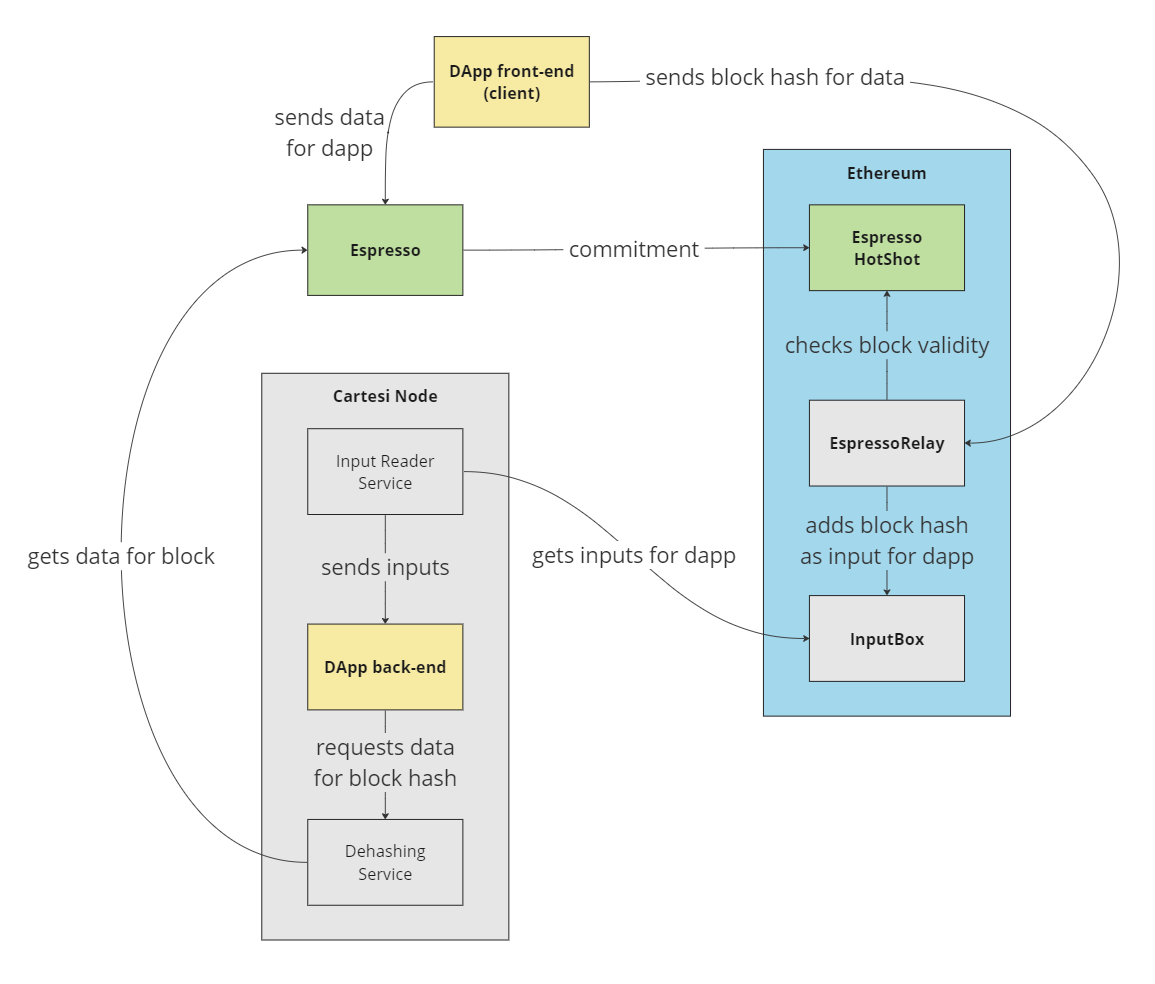
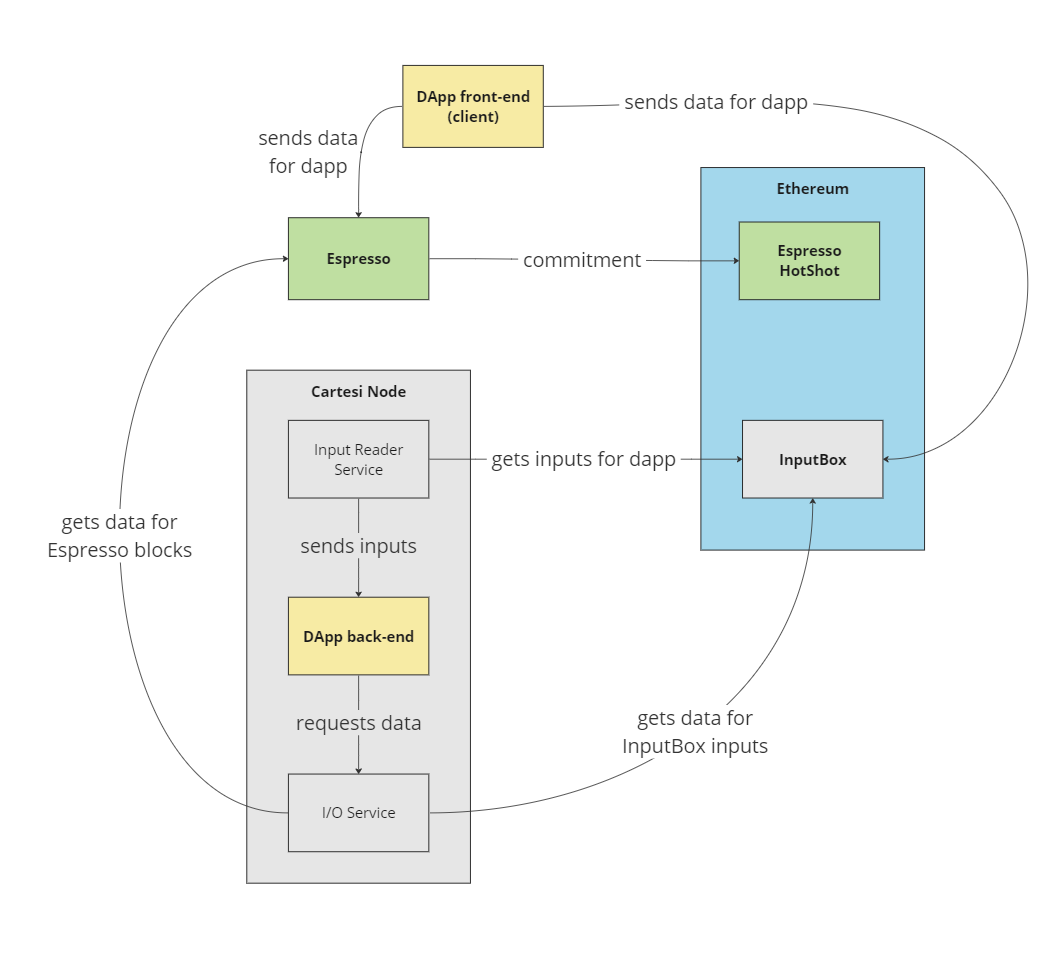
Update README for Espresso Sequencer + DA

diff --git a/echo-espresso/src/index.ts b/echo-espresso/src/index.ts
@@ -17,8 +17,8 @@ const dehashingServer = process.env.DEHASHING_SERVER_URL;
 console.log("Dehashing server url is " + dehashingServer);
 
 // next Espresso block height to process
-//let espressoBlockHeight: number | undefined = undefined;
-let espressoBlockHeight: number = 1284960;
+// - initial value is starting point from where to process Espresso data (genesis block)
+let espressoBlockHeight: number = 1687985;
 
 /**
  * Fetch data from the InputBox

diff --git a/README.md b/README.md
@@ -1,111 +1,162 @@
 # rollups-espresso
 
-Experimentation to allow the creation of Cartesi DApps using Espresso's sequencer and DA
+Experimentation to allow the creation of Cartesi DApps using Espresso's sequencer and DA.
+
+The first version of the experiment, using Espresso solely as DA, can be found [in this branch](https://github.com/miltonjonat/rollups-espresso/tree/release/0.1.x-da-only).
 
 ## Rationale
 
 [Espresso Systems](https://www.espressosys.com/) provides a decentralized sequencer and data availability system, which can be of use to scale layer-2 rollup solutions.
 [Cartesi](https://cartesi.io) provides a [rollups solution](https://docs.cartesi.io/cartesi-rollups/) which could particularly benefit from both.
 
-In this experiment, we do a minimalistic experimentation of using Espresso solely as a DA provider for Cartesi DApps. This will **not** provide much benefits in terms of transaction throughput, but it will allow larger volumes of data to be used in Cartesi DApps. In other words, it does not help applications that need clients to send hundreds of transactions, but it does help applications where larger sets of data are required.
+In this experiment, we implement a simplified solution to allow Cartesi DApps to pull data from the Espresso sequencer while retaining the ability to fetch inputs from the Cartesi Rollups InputBox contract on the base layer (as they usually do).
+As such, applications can take advantage of Espresso's higher throughput and lower fees and latency, while still being able to interact with the base layer (e.g., to manage L1 assets).
+
+The main purpose of this experiment is to learn how this kind of integration could work in practice, while still being generally compatible with fraud proof systems such as Dave.
+At its current stage, the experiment attempts to do minimal changes to the current Cartesi Rollups architecture, particularly by preserving how inputs and outputs are handled by the Cartesi Node (which is probably not the ideal approach for a production-ready implementation).
+
+Please note that this experiment is currently **incomplete**, and can only be executed in "host mode". An actual implementation using Cartesi Machines will require a version of the Cartesi Node that is compatible with the machine's new generic I/O device.
+
 
 ## Architecture
 
-The general procedure envisioned here to use Espresso data in Cartesi DApps is the following:
+The general procedure envisioned here is for the application to specify which data it should process next, instead of passively receiving inputs.
+This is done by having the application make an "I/O request" specifying a `domain` of interest (e.g., "inputbox" or "espresso") and an `id` within that domain (e.g., an input index, or an Espresso block number).
+
+### How I/O requests are made
+
+In a real implementation, I/O requests would be sent to the Cartesi Machine's new generic I/O device, which would then yield (halt the machine). Outside the machine, the Cartesi Node would notice the request, fetch the corresponding piece of data, write the data to the machine, and then resume the machine's execution. The fetching of the data could be done via an "I/O service" component running in the Node, which would have drivers (or plugins) capable of fetching data for each supported domain.
+
+For this experiment, since we do not have a Node compatible with the generic I/O device, we will run the application in "host mode" (i.e., directly on the host and not inside the Cartesi Machine), and have it call the I/O service component directly.
+
+### Why this way? Considerations about fraud proof systems
+
+This approach of having the application request the data, as opposed to passively receiving inputs, is crucial for the solution to remain manageable by a fraud proof system such as Dave. When there are several sources of data (as is the case here), it would become extremely complicated for an on-chain dispute resolution process to include the logic for handling the relative order of the data.
+
+Instead, if that logic is contained within the application itself (i.e., in code running inside the deterministic Cartesi Machine), it becomes transparent to the fraud proof system.
+The only requirement is that each I/O operation must be provable on-chain, meaning that it must be possible to prove the Cartesi merkle root hash of the data returned by the `[domain, id]` request. These proofs (which may even involve ZK for some cases) are not implemented in this experiment.
+It is also naturally required that each request be fully deterministic, meaning that it must always yield the exact same data regardless of when it was called.
+
+### General workflow
+
+The following diagram summarizes the general workflow:
 
 ![Rollups Espresso Diagram](./rollups-espresso.png)
 
-1. Client submits data to Espresso, using a VM ID derived from the Cartesi DApp's address
-1. Client waits for the data to be included in an Espresso block, and notes the block's hash
-1. Client submits the block hash to an `EspressoRelay` contract on the base layer, so that it is sent to the Cartesi DApp's back-end
-1. The `EspressoRelay` contract checks with Espresso's `HotShot` contract if the block hash is indeed valid (not implemented)
-1. The `EspressoRelay` contract calls the Cartesi `InputBox` to add the block hash as an input to the Cartesi DApp
-1. The Cartesi Node reads the input from `InputBox` and sends it to be processed by the DApp back-end, as with any other input
-1. The DApp back-end recognizes that the input comes from the `EspressoRelay` contract, which it trusts to have verified as being a valid Espresso block hash
-1. The DApp back-end requests the corresponding block data using the `Dehashing Service`
-1. The `Dehashing Service` fetches the specified block, and serves only the data associated with the Cartesi DApp's VM ID (derived from its address)
-1. The DApp back-end receives the data and resumes processing
+1. DApp is deployed to an Ethereum-compatible network, for which there is an `Espresso` instance submitting its commitments
+1. `Client` submits a first input to the DApp via the L1 InputBox
+1. The `Cartesi Node` reads the input from the `InputBox` and sends it to be processed by the `DApp back-end`, as with any other input
+1. The `DApp back-end` starts up to process the input, and then begins requesting data from both the L1 `InputBox` and `Espresso`, via the `I/O Service`; whenever it requests data, it blocks (yields) until it receives it
+1. `Client` submits subsequent data to the DApp: either via the L1 `InputBox` (higher latency and costs), or via `Espresso` (lower latency and costs); for `Espresso`, it will use a VM ID derived from the Cartesi DApp's address
+1. The `I/O Service` fetches data from both sources, and serves them when requested by the `DApp back-end`
+1. The `DApp back-end` receives the data and resumes processing
 
-In this experiment, no thought is given to on-chain dispute resolution. It is assumed that this will be resolved later on by providing some sort of proof (maybe ZK) to associate an Espresso block hash with the Cartesi merkle tree root hash of its corresponding data.
+### I/O request ordering
+
+To read data from both the L1 InputBox and Espresso, the DApp back-end must establish a well-defined and repeatable order.
+In this experiment, this is accomplished by using L1 blocks as anchors to define when to switch from one source to the other. As such, in every I/O request of the form `[domain, id]`, the `id` includes an L1 block number of reference, meaning that the request should only return the corresponding data if it was found to be available at the time of that L1 block.
+
+The basic workflow is as follows:
+1. First InputBox input is received, which includes the L1 block number in which it was added
+2. DApp back-end processes all other InputBox inputs that were added _in that same L1 block_
+3. DApp back-end processes all data from Espresso blocks that were available _at the time of that same L1 block_
+4. DApp back-end increments L1 block number of reference and returns to (2)
+
+It should be noted that step (3) is possible because Espresso blocks include information about the state of the L1 chain at the time they are produced (e.g., the current L1 finalized block hash and number).
 
 ## Components
 
 To implement the proposed architecture, this repository contains the following components:
 
-- `dehashing-server`: a simple HTTP server that receives requests for dehashing Espresso blocks, returning the corresponding data. This component is expected to run inside the Cartesi Node
-- `onchain > EspressoRelay`: a smart contract for safely relaying Espresso block hashes as inputs to Cartesi DApps
-- `echo-espresso`: a back-end that simply receives an input from the EspressoRelay and outputs a notice with the corresponding data
+- `dehashing-server`: a simple HTTP server that receives requests for InputBox inputs and Espresso blocks (and potentially other data sources), returning the corresponding data. This component is expected to run inside the Cartesi Node
+- `echo-espresso`: a back-end that requests data from both the InputBox and Espresso in a well-defined order, and outputs a notice repeating ("echoing") each payload received
 
 ## Running
 
-To run this experiment, perform the following steps:
+To run this experiment on Sepolia, perform the following steps:
 
-1. Start a local sunodo development node without a back-end (aka run it in "host mode")
+1. Build the `echo-espresso` DApp with sunodo
 
 ```shell
-sunodo run --no-backend
+cd echo-espresso
+sunodo build
 ```
 
-2. Start the `dehashing-server` (it will run on port 5006)
+2. Deploy the `echo-espresso` DApp to Sepolia (e.g., using an Alchemy gateway)
 
 ```shell
+export NETWORK=sepolia
+export CHAIN_ID=11155111
+export MNEMONIC=<user sequence of twelve words>
+export RPC_URL=https://eth-sepolia.g.alchemy.com/v2/<USER_KEY>
+export WSS_URL=wss://eth-sepolia.g.alchemy.com/v2/<USER_KEY>
+docker compose -f deploy.yml run authority-deployer
+docker compose -f deploy.yml run dapp-deployer
+```
+
+3. Start a local validator node without a back-end (aka run it in "host mode") for that deployment on Sepolia
+
+First, define `SUNODO_BIN_PATH` by checking where Sunodo is installed in your system. For instance, if Sunodo was installed globally via npm, you can run `npm -g list` to find out its installation path, and then define the variable as such:
+
+```shell
+export SUNODO_BIN_PATH=~/.nvm/versions/node/<NODE_VERSION>/lib/node_modules/@sunodo/cli/dist
+```
+
+And then, start the node:
+
+```shell
+docker compose -f $SUNODO_BIN_PATH/node/docker-compose-validator.yaml -f $SUNODO_BIN_PATH/node/docker-compose-database.yaml -f $SUNODO_BIN_PATH/node/docker-compose-explorer.yaml -f $SUNODO_BIN_PATH/node/docker-compose-anvil.yaml  -f $SUNODO_BIN_PATH/node/docker-compose-proxy.yaml -f $SUNODO_BIN_PATH/node/docker-compose-prompt.yaml -f $SUNODO_BIN_PATH/node/docker-compose-host.yaml -f $SUNODO_BIN_PATH/node/docker-compose-envfile.yaml -f ./deployments-volume.yaml --project-directory . up --attach prompt --attach validator
+```
+
+4. In a separate terminal, start the `dehashing-server` for the deployed DApp and looking at Sepolia as the base layer (it will run on port 5006)
+
+```shell
+export RPC_URL=https://eth-sepolia.g.alchemy.com/v2/<USER_KEY>
+export DAPP_ADDRESS=$(cat echo-espresso/.deployments/sepolia/dapp.json | jq -r .address)
 cd dehashing-server
 yarn && yarn start
 ```
 
-3. In a separate terminal, run the `echo-espresso` back-end in the host
+5. In a separate terminal, run the `echo-espresso` back-end in the host
 
 ```shell
 cd echo-espresso
 yarn && yarn start
 ```
 
-4. In a separate terminal, deploy the `EspressoRelay` contract to sunodo's internal Anvil instance:
+### Interacting with the application
+
+1. First of all, extract the application's deployed address
 
 ```shell
-cd onchain
-yarn && yarn deploy
+cd echo-espresso
+export DAPP_ADDRESS=$(cat .deployments/sepolia/dapp.json | jq -r .address)
 ```
 
-5. Send an Espresso block hash as input to the `EspressoRelay` contract
+2. Send an L1 input via the InputBox using `sunodo send`
 
 ```shell
-cast send 0x1fA2e8678b9EAE6048E546Be1B34a943670CF1ab \
-  "relayBlock(address,bytes)(bytes32)" \
-  "0x70ac08179605AF2D9e75782b8DEcDD3c22aA4D0C" \
[1 lines of base64/hex data omitted]
-  --mnemonic "test test test test test test test test test test test junk" \
-  --mnemonic-index 0 \
-  --rpc-url "http://localhost:8545"
+sunodo send generic --dapp $DAPP_ADDRESS -c $CHAIN_ID -r $RPC_URL --mnemonic-passphrase "$MNEMONIC"
 ```
-(this will send block hash `BLOCK~xaLAQAJNDHdcBTneFN347Ymr9dabkGhGvahY4HNsVL-a`)
 
-6. Check the corresponding output notice generated by the DApp back-end
+3. Send some arbitrary data to Espresso (we are using the Gibraltar testnet in this experiment). Note that we are currently deriving the DApp's VM ID from the first 8 bytes of the DApp's address:
+
+```shell
+export VM_ID=$(DAPP_ADDRESS_UPPER=${DAPP_ADDRESS^^} && echo "ibase=16; ${DAPP_ADDRESS_UPPER:2:16}" | bc)
+curl -X POST -H "Content-Type: application/json" -d '{ "vm": '$VM_ID', "payload": [100, 110, 120, 130] }' https://query.gibraltar.aws.espresso.network/submit/submit
+```
+
+4. Check the corresponding output notice generated by the DApp back-end
 
 ```shell
 curl http://localhost:8080/graphql -H 'Content-Type: application/json' -d '{"query":"{ notices { edges { node { payload } } } }"}'
 ```
 
-### Submitting data to Espresso
+## Current limitations and known issues
 
-To actually submit your own data to Espresso, these are the steps:
-
-1. Check the current block height at Espresso (we are using the Cortado testnet in this experiment)
-
-```shell
-export ESPRESSO_BLOCK_HEIGHT=$(curl https://espresso.tspre.org/status/latest_block_height)
-```
-
-2. Use the returned block height to subscribe to Espresso's websocket, using grep to filter only the data that we will submit (here we assume VM ID `8118873125636387000`). 
-
-```shell
-npx wscat --connect wss://espresso.tspre.org/availability/stream/blocks/$ESPRESSO_BLOCK_HEIGHT | grep 8118873125636387000
-```
-
-3. In a separate terminal, send some arbitrary data to Espresso. For instance:
-
-```shell
-curl -X POST -H "Content-Type: application/json" -d '{ "vm": 8118873125636387000, "payload": [100, 110, 120, 130] }' https://espresso.tspre.org/submit/submit
-```
-
-4. Check the websocket stream to extract an appropriate block hash. The websocket will include several blocks for the same data, that is expected.
+1. As noted before, for now this experiment only runs in host mode
+1. Outputs are currently only updated in the GraphQL endpoint when an L1 InputBox input is processed
+1. Data retrieval via the [dehashing-server](./dehashing-server/) is not optimized, so it's a good idea to update the `espressoBlockHeight` initial value in [echo-espresso](./echo-espresso/src/index.ts) to a current one
+1. Epoch computation in the [dehashing-server](./dehashing-server/) does not currently comply with what the Authority consensus actually does
+1. The [dehashing-server](./dehashing-server/) is currently reading L1 data from "latest" instead of "finalized", because the Node is not reading "finalized" at the moment
+1. Back-end code should expect Espresso data to be signed and include a nonce; it should parse that to define `msgSender` and use the nonce to avoid processing duplicate payloads/transactions
